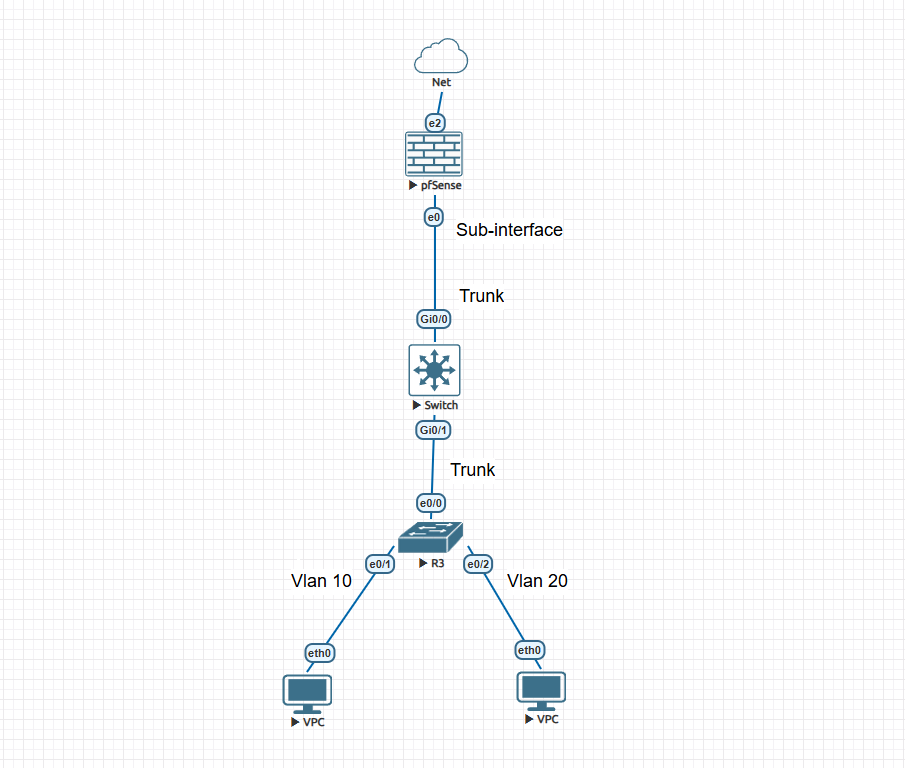
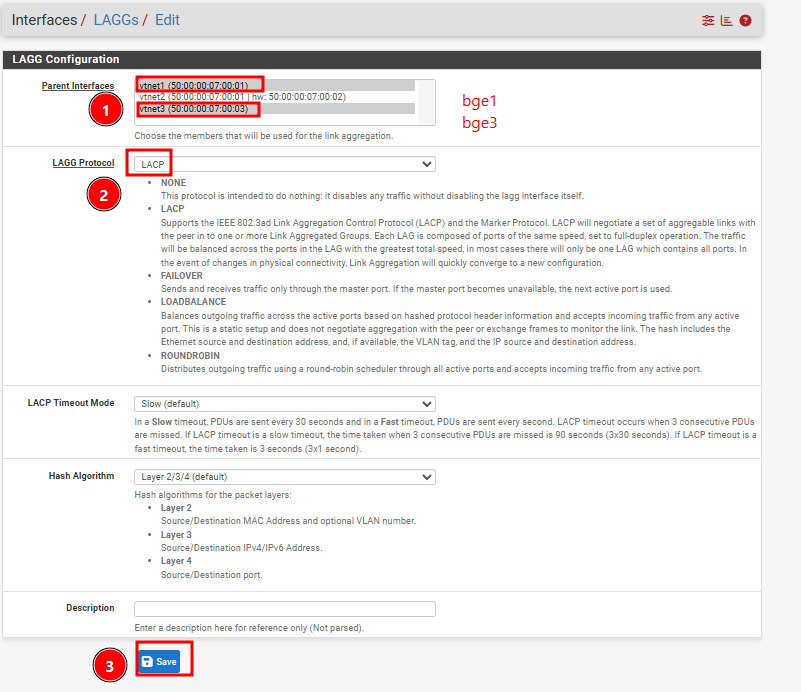
update plan lagg

Changed region(s): [[0.0, 0.0, 0.9675, 1.0], [0.5618, 0.8194, 0.6242, 0.9408], [0.0624, 0.8497, 0.1561, 0.8801]]

diff --git a/README.md b/README.md
@@ -1,13 +1,17 @@
-# Kế hoạch Thay thế Firewall pfSense cũ bằng Firewall pfSense mới (Có LACP)
+# Kế hoạch Thay thế Firewall pfSense cũ bằng Firewall pfSense mới downstream(Có LACP) 
 
 Mục tiêu: Thay thế hoàn toàn thiết bị pfSense cũ (đang dùng 1 port LAN) sang thiết bị pfSense mới (sử dụng LACP bonding 2 port) với thời gian downtime (gián đoạn mạng) thấp nhất.
+
+<img src="images/topology.png" width="800"> 
+
 
 ## Mục lục
 - [1. Phương án thực hiện](#1-phương-án-thực-hiện)
 - [2. Các bước thực hiện cụ thể](#2-các-bước-thực-hiện-cụ-thể)
-  - [Giai đoạn 1: Chuẩn bị (Không gây downtime)](#giai-đoạn-1-chuẩn-bị---không-gây-downtime)
-  - [Giai đoạn 2: Chuyển đổi (Cut-over)](#giai-đoạn-2-chuyển-đổi-cut-over---downtime-dự-kiến-1-5-phút)
-  - [Giai đoạn 3: Kiểm tra (Post-migration)](#giai-đoạn-3-kiểm-tra-post-migration)
+  - [Giai đoạn 1: Chuẩn bị](#giai-đoạn-1-chuẩn-bị---không-gây-downtime)
+  - [Giai đoạn 2: Cấu hình LAGG và Trunk trên Core Switch](#giai-đoạn-2-cấu-hình-lagg-và-trunk-trên-core-switch)
+  - [Giai đoạn 3: Cấu hình Lagg trên pfsense](#giai-đoạn-3-cấu-hình-lagg-trên-pfsense)
+  - [Giai đoạn 4: Chuyển đổi cáp vật lý và Kiểm tra](#giai-đoạn-4-chuyển-đổi-cáp-vật-lý-và-kiểm-tra)
 - [3. Rủi ro lỗi ở các bước thực hiện](#3-rủi-ro-lỗi-ở-các-bước-thực-hiện)
 - [4. Phương án Rollback (Nếu lỗi không khắc phục được)](#4-phương-án-rollback-nếu-lỗi-không-khắc-phục-được)
 
@@ -39,106 +43,81 @@ Mục tiêu: Thay thế hoàn toàn thiết bị pfSense cũ (đang dùng 1 port
 
    - *Lưu ý:* Trong quá trình reboot, pfSense có thể sẽ yêu cầu nhập password mới để hoàn thành.
    
-   - **Thiết lập LAGG trên pfsense mới và gán lại các VLAN (10, 20) vào interface `lagg0` thay vì port đơn như trước:**
-     - Vào `Interfaces > LAGGs`, bấm **Add** > thêm `e3, e4` (giả sử `e3, e4` là 2 cổng mới thêm vào trên pfSense để dành riêng cho việc cấu hình LAGG).
-     
-     <img src="images/3.png" width="600">    
+### Giai đoạn 2: Cấu hình LAGG và Trunk trên Core Switch
 
-     - Vào `Interfaces > VLANs`, tạo sub-interfaces VLAN trên nền của LAGG `e3, e4` vừa tạo.
-     
-     <img src="images/4.png" width="600">
+1. Tạo một cổng portchannel mới trên CoreSw (g1/0/4, g1/0/5) và cấu hình trunk trên portchannel đó 
 
-     - Vào `Interfaces > Interface Assignments`, add thêm interface `lagg0` và `Enable` nó lên.
-     
-     <img src="images/16.png" width="600">
-     <br>
-     <img src="images/17.png" width="600">
+```cisco
+CoreSw(config)#interface range g1/0/4,g1/0/5
+CoreSw(config-if-range)#no shut
+CoreSw(config-if-range)#switchport mode trunk
+CoreSw(config-if-range)#switchport trunk allowed vlan 1,5,6,9,20,21,22,24,26,28,30,34,40,50,90,91,92
+CoreSw(config-if-range)#channel-group 4 mode active
+CoreSw(config-if-range)#interface po4
+CoreSw(config-if)#switchport mode trunk
+CoreSw(config-if)#switchport trunk allowed vlan 1,5,6,9,20,21,22,24,26,28,30,34,40,50,90,91,92
+```
 
-     - Vẫn ở `Interfaces > Interface Assignments`, thay thế các sub-interface VLAN cũ bằng sub-interface VLAN mới vừa tạo trên nền LAGG.
-     - Việc thay thế này sẽ giúp giữ nguyên mọi cấu hình ban đầu trên các interface cũ như IP, VLAN, DHCP, Rules..., chỉ thay đổi interface vật lý.
-     
-     <img src="images/5.png" width="600">
-     <br>
-     <img src="images/6.png" width="600"> 
+2. **Tắt cổng Trunk đang dùng trên Core Switch (downtime):**
+   ```cisco
+   CoreSw(config)# interface g1/0/1
+   CoreSw(config-if)# shutdown
+   ```
 
-     - Xóa interface cũ (`e0`) và các sub-interface đi kèm của nó.
-     
-     <img src="images/18.png" width="600">
-     <br>
-     <img src="images/19.png" width="600">
+### Giai đoạn 3: Cấu hình Lagg trên pfsense
 
-     - Đổi tên các interface vừa thay thế:
+- Truy cập Web GUI pfSense qua IP WAN (172.16.11.2), không xoá interface LAN (bge1) hiện tại đang dùng, mà gộp luôn interface đó vào cùng với cổng mới để tạo LAGG (bge1 là cổng Trunk đang dùng, bge3 là cổng mới)
 
-     <img src="images/rename-1.png" width="600">
-     <br>
-     <img src="images/rename-2.png" width="600">
-     <br>
-     <img src="images/rename-3.png" width="600">
+<img src="images/pic1.png" width="600">
 
-3. **Chuẩn bị Core Switch:**
-   - Trên 2 port trống trên Core Switch (VD: G0/3, G1/0), cấu hình Port-Channel (LACP mode active), sau đó cấu hình Trunk allow các VLAN tương ứng trên port-channel này.
+<img src="images/image.png" width="600"> 
 
-   - **Cấu hình LACP và Trunk trên Core Switch:**
-     *(Theo chuẩn Cisco, bạn chỉ cần gộp port vật lý vào LACP, sau đó cấu hình Trunk trên giao diện Port-channel ảo, cấu hình này sẽ tự động ép xuống 2 port vật lý để tránh lỗi bất đồng bộ).*
-     ```cisco
-     CoreSw(config)# int range g0/3, g1/0
-     CoreSw(config-if-range)# channel-group 1 mode active
-     CoreSw(config-if-range)# exit
 
-     CoreSw(config)# int port-channel 1
-     CoreSw(config-if)# sw trunk encapsulation dot1q
-     CoreSw(config-if)# sw mode trunk
-     CoreSw(config-if)# sw trunk allowed vlan 10,20
-     CoreSw(config-if)# end
-     CoreSw# wr
-     ```
+- Sau đó vào Interfaces/VLANs, thay interface của các vlan hiện tại bằng laggs vừa tạo. Điều này giúp tránh việc phải tạo thêm interface vlan mới.
 
-### Giai đoạn 2: Chuyển đổi (Cut-over) - *Downtime dự kiến 1-5 phút*
+<img src="images/image2.png" width="600"> 
+ 
+<img src="images/image3.png" width="600"> 
+ 
+<img src="images/image4.png" width="600"> 
 
-1. **Tắt Firewall cũ (Bắt đầu tính Downtime):**
-   - Trên Core Switch: Thực hiện lệnh `shutdown` port LAN nối với con pfSense cũ. (giả sử cổng g0/0 là cổng LAN cũ)
+### Giai đoạn 4: Chuyển đổi cáp vật lý và Kiểm tra
 
-      ```cisco
-      CoreSw(config)# int g0/0
-      CoreSw(config-if)# shutdown
-      CoreSw(config-if)# end
-      CoreSw# wr
-      ```
+1. **Chuyển cáp hoàn thiện:**
+   - Rút bỏ cáp cũ đang cắm ở cổng `g1/0/1` của Switch.
+   - Sử dụng cáp mạng để nối: 1 sợi từ cổng `bge1 (4)` của pfSense sang `g1/0/4` của Switch, và 1 sợi nối từ cổng `bge3 (2)` sang `g1/0/5` của Switch (lúc này LACP sẽ hoạt động đồng bộ trên cả 2 đường).
 
-   - Rút cáp mạng cổng WAN của con pfSense cũ.
+2. **Kiểm tra trạng thái (Post-migration):**
+   - Trên Core Switch, gõ lệnh `show etherchannel summary` để đảm bảo cả 2 cổng `g1/0/4` và `g1/0/5` đều có trạng thái `(P)`.
+   - Ping test từ mạng LAN ra internet (VD: `ping 8.8.8.8`) để xác nhận hệ thống hoạt động ổn định.
 
-2. **Bật Firewall mới:**
-   - Cắm cáp WAN vào cổng WAN của con pfSense mới.
-   - Nối cáp mạng từ 2 cổng mới trên pfSense vào 2 cổng vừa cấu hình LACP trên Core Switch.
-   - Đợi cho Switch và pfSense thỏa thuận giao thức LACP thành công.
-
-### Giai đoạn 3: Kiểm tra (Post-migration)
-
-1. Trên Core Switch chạy lệnh `show etherchannel summary` để kiểm tra LACP đã "UP" đều cả 2 cổng hay chưa.
-2. Vào `Status > Interfaces` hoặc `Diagnostics > LAGG` trên pfSense mới để xác nhận lagg0 đang ở trạng thái ACTIVE trên cả 2 cổng.
-3. Ping kiểm tra từ máy tính thuộc mạng VLAN ra Internet (IP WAN) và DNS (8.8.8.8).
-4. Kiểm tra các dịch vụ Publish ra ngoài (Port Forwarding, VPN) xem có hoạt động bình thường không.
-
----
-
-## 3. Rủi ro lỗi ở các bước thực hiện
-
-> [!WARNING]
-> Những rủi ro sau có thể làm gián đoạn chuyển đổi.
-
-- **Rủi ro 1: Lỗi Restore cấu hình dẫn đến mất kiểm soát con mới.** File cấu hình (XML) của phiên bản pfSense cũ không tương thích với phiên bản pfSense mới.
-- **Rủi ro 2: Lỗi LACP không up.** Mặc dù đã chuẩn bị offline, nhưng khi chuyển đổi, Switch và pfSense không thỏa thuận được LACP, làm kết nối LAN chập chờn hoặc rớt gói tin.
+3. **Nếu cổng Po4 lên thành công thì đưa interface trunk cũ về trạng thái default**
+```
+   CoreSw(config)# default interface GigabitEthernet 1/0/1
+```
 ---
 
 ## 4. Phương án Rollback (Nếu lỗi không khắc phục được)
 
 > [!CAUTION]
-> Kích hoạt Rollback nếu vượt quá 10 phút không có Internet và không thể truy vết lỗi nhanh.
+> Kích hoạt Rollback nếu vượt quá 5-10 phút không có Internet và không thể khắc phục nhanh.
 
-1. **Trên Core Switch:** 
-   - `shutdown` ngay lập tức 2 port LACP nối với firewall mới (G0/3, G1/0).
-   - `no shutdown` mở lại port kết nối với firewall cũ.
-2. **Kéo lại cáp WAN:**
-   - Rút cáp WAN khỏi Firewall mới, cắm trả lại vào cổng WAN của Firewall cũ.
+1. **Khôi phục cấu hình pfSense:**
+   - Truy cập giao diện web pfSense (qua IP cổng WAN 172.16.11.2).
+   - Vào `Diagnostics > Backup & Restore`, tải lên file XML đã backup ở Giai đoạn 1 và chọn `Restore Configuration`.
+   - (Việc restore backup sẽ tự động đè lại trạng thái mạng ban đầu, bạn không cần phải tốn công xóa LAGG hay chỉnh sửa interface thủ công).
+
+2. **Khôi phục Core Switch và Cáp mạng:**
+
+    - Rút bỏ các sợi cáp LACP mới (`g1/0/4`, `g1/0/5`, `bge3`).
+
+   - Cắm trả lại dây trunk vào cổng `g1/0/1` của Switch (đầu kia nối với `e1` của pfSense) như cũ.
+
+   - Bật lại cổng LAN cũ trên Switch:
+     ```cisco
+     CoreSw(config)# interface g1/0/1
+     CoreSw(config-if)# no shutdown
+     ```
+
 3. **Kiểm tra dịch vụ:**
-   - Kiểm tra mạng xem đã trở lại bình thường chưa. (Quá trình rollback này thường chỉ mất 1-2 phút do firewall cũ chưa hề bị thay đổi cấu hình hay xóa bỏ, vẫn đang ở trạng thái sẵn sàng).
+   - Đợi pfSense khởi động xong, ping test từ mạng LAN ra `8.8.8.8` để đảm bảo mọi thứ đã trở lại bình thường.
